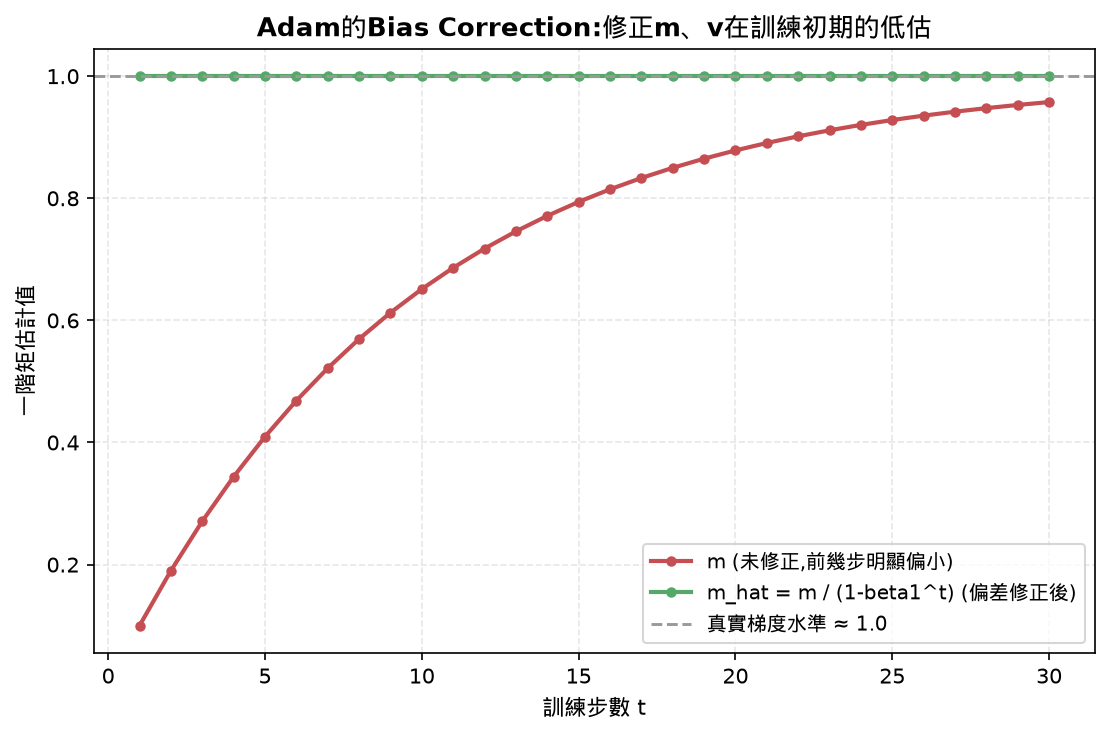
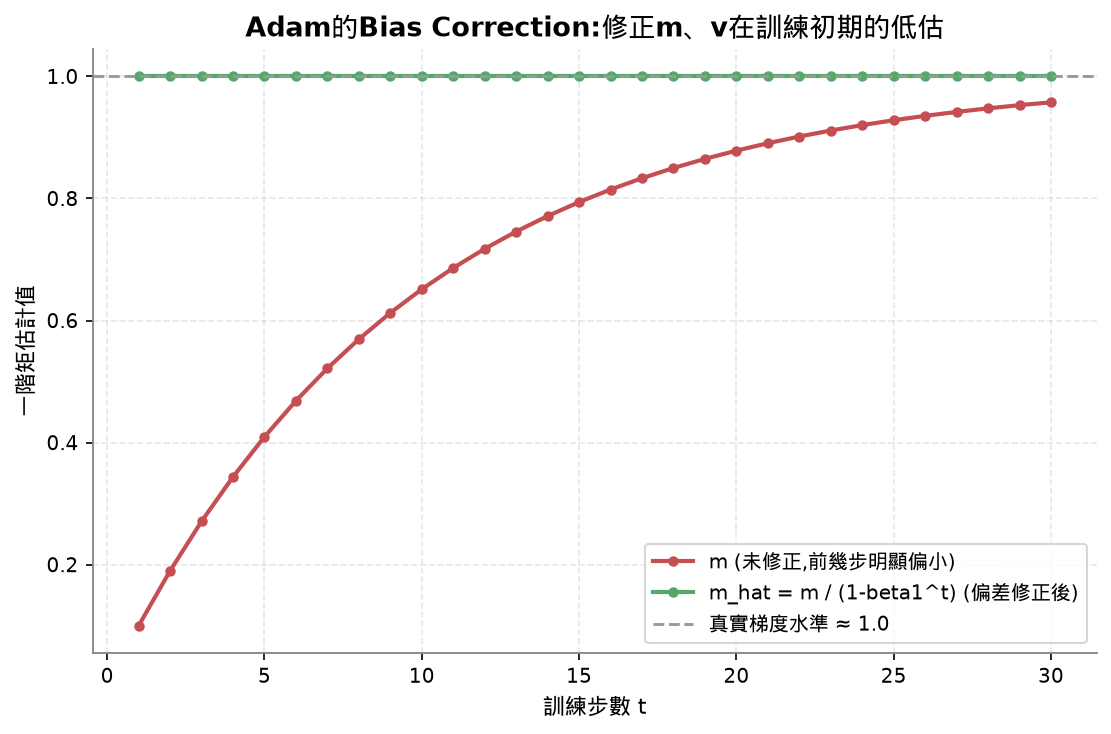
Lesson 8 diagrams: unify visual style
Regenerate with the shared plot style module.

diff --git a/01-math-foundations/08-optimization/images/make_convex_vs_nonconvex_demo.py b/01-math-foundations/08-optimization/images/make_convex_vs_nonconvex_demo.py
@@ -6,9 +6,10 @@ import matplotlib.font_manager as fm
 import matplotlib.pyplot as plt
 import numpy as np
 
-fm.fontManager.addfont("/usr/share/fonts/truetype/droid/DroidSansFallbackFull.ttf")
-matplotlib.rcParams["font.family"] = ["DejaVu Sans", "Droid Sans Fallback"]
-matplotlib.rcParams["axes.unicode_minus"] = False
+import sys
+sys.path.insert(0, "../../_shared")
+from plot_style import setup_style, BLUE, RED, GREEN, PURPLE, GOLD, GRAY
+setup_style()
 
 x = np.linspace(-3, 3, 300)
 convex = x ** 2
@@ -27,7 +28,7 @@ axes[1].plot(local_min_x, 0.15 * local_min_x ** 4 - 0.9 * local_min_x ** 2 + 0.3
              "o", color="#8172B2", markersize=11, zorder=5, label="局部最小值")
 axes[1].plot(global_min_x, 0.15 * global_min_x ** 4 - 0.9 * global_min_x ** 2 + 0.3 * global_min_x + 3,
              "*", color="#55A868", markersize=16, zorder=5, label="全域最小值")
-axes[1].legend(fontsize=9)
+axes[1].legend()
 axes[1].set_title("非凸函數(神經網路loss長這樣)\n有局部最小值、鞍點、平坦區域", fontsize=11.5, fontweight="bold", color="#C44E52")
 
 for ax in axes:
@@ -35,7 +36,7 @@ for ax in axes:
     ax.set_ylabel("f(x)")
     ax.grid(alpha=0.3, linestyle="--")
 
-fig.suptitle("Convex vs Non-convex:神經網路的loss地形比凸函數複雜很多", fontsize=13, fontweight="bold")
+fig.suptitle("Convex vs Non-convex:神經網路的loss地形比凸函數複雜很多")
 plt.tight_layout()
 plt.savefig("convex_vs_nonconvex.png", dpi=150, bbox_inches="tight")
 print("saved")

diff --git a/01-math-foundations/08-optimization/images/make_bias_correction_demo.py b/01-math-foundations/08-optimization/images/make_bias_correction_demo.py
@@ -6,9 +6,10 @@ import matplotlib
 import matplotlib.font_manager as fm
 import matplotlib.pyplot as plt
 
-fm.fontManager.addfont("/usr/share/fonts/truetype/droid/DroidSansFallbackFull.ttf")
-matplotlib.rcParams["font.family"] = ["DejaVu Sans", "Droid Sans Fallback"]
-matplotlib.rcParams["axes.unicode_minus"] = False
+import sys
+sys.path.insert(0, "../../_shared")
+from plot_style import setup_style, BLUE, RED, GREEN, PURPLE, GOLD, GRAY
+setup_style()
 
 beta1 = 0.9
 true_gradient = 1.0  # 假設梯度大致穩定在1.0附近
@@ -26,8 +27,8 @@ ax.axhline(true_gradient, color="#999999", lw=1.4, linestyle="--", label="真實
 ax.set_xlabel("訓練步數 t", fontsize=10.5)
 ax.set_ylabel("一階矩估計值", fontsize=10.5)
 ax.grid(alpha=0.3, linestyle="--")
-ax.legend(fontsize=9.5, loc="lower right")
-ax.set_title("Adam的Bias Correction:修正m、v在訓練初期的低估", fontsize=12.5, fontweight="bold")
+ax.legend(loc="lower right")
+ax.set_title("Adam的Bias Correction:修正m、v在訓練初期的低估")
 
 plt.tight_layout()
 plt.savefig("bias_correction.png", dpi=150, bbox_inches="tight")

diff --git a/01-math-foundations/08-optimization/images/make_adam_comparison_demo.py b/01-math-foundations/08-optimization/images/make_adam_comparison_demo.py
@@ -8,9 +8,10 @@ import matplotlib.font_manager as fm
 import matplotlib.pyplot as plt
 import numpy as np
 
-fm.fontManager.addfont("/usr/share/fonts/truetype/droid/DroidSansFallbackFull.ttf")
-matplotlib.rcParams["font.family"] = ["DejaVu Sans", "Droid Sans Fallback"]
-matplotlib.rcParams["axes.unicode_minus"] = False
+import sys
+sys.path.insert(0, "../../_shared")
+from plot_style import setup_style, BLUE, RED, GREEN, PURPLE, GOLD, GRAY
+setup_style()
 
 sys.path.insert(0, "..")
 from reference import GradientDescent, SGDMomentum, Adam, rosenbrock, rosenbrock_gradient, optimize
@@ -44,8 +45,8 @@ ax.set_xlim(-1.5, 1.5)
 ax.set_ylim(-1, 2)
 ax.set_xlabel("x")
 ax.set_ylabel("y")
-ax.set_title("GD vs SGD+Momentum vs Adam:同一個Rosenbrock地形,3000步後的真實軌跡", fontsize=12.5, fontweight="bold")
-ax.legend(fontsize=9, loc="upper left")
+ax.set_title("GD vs SGD+Momentum vs Adam:同一個Rosenbrock地形,3000步後的真實軌跡")
+ax.legend(loc="upper left")
 
 plt.tight_layout()
 plt.savefig("optimizer_comparison_rosenbrock.png", dpi=150, bbox_inches="tight")

diff --git a/01-math-foundations/08-optimization/images/make_sgd_noise_demo.py b/01-math-foundations/08-optimization/images/make_sgd_noise_demo.py
@@ -7,9 +7,10 @@ import matplotlib.font_manager as fm
 import matplotlib.pyplot as plt
 import numpy as np
 
-fm.fontManager.addfont("/usr/share/fonts/truetype/droid/DroidSansFallbackFull.ttf")
-matplotlib.rcParams["font.family"] = ["DejaVu Sans", "Droid Sans Fallback"]
-matplotlib.rcParams["axes.unicode_minus"] = False
+import sys
+sys.path.insert(0, "../../_shared")
+from plot_style import setup_style, BLUE, RED, GREEN, PURPLE, GOLD, GRAY
+setup_style()
 
 rng = np.random.default_rng(3)
 
@@ -49,8 +50,8 @@ ax.plot(x_sgd, f(x_sgd), "o-", color="#C44E52", lw=1.4, markersize=4, alpha=0.85
 ax.set_xlabel("參數 x", fontsize=10.5)
 ax.set_ylabel("loss = f(x)", fontsize=10.5)
 ax.grid(alpha=0.3, linestyle="--")
-ax.legend(fontsize=9.5)
-ax.set_title("Batch GD vs Mini-batch SGD:雜訊換來跳出平坦區/淺谷的機會", fontsize=12, fontweight="bold")
+ax.legend()
+ax.set_title("Batch GD vs Mini-batch SGD:雜訊換來跳出平坦區/淺谷的機會")
 
 plt.tight_layout()
 plt.savefig("sgd_noise.png", dpi=150, bbox_inches="tight")
